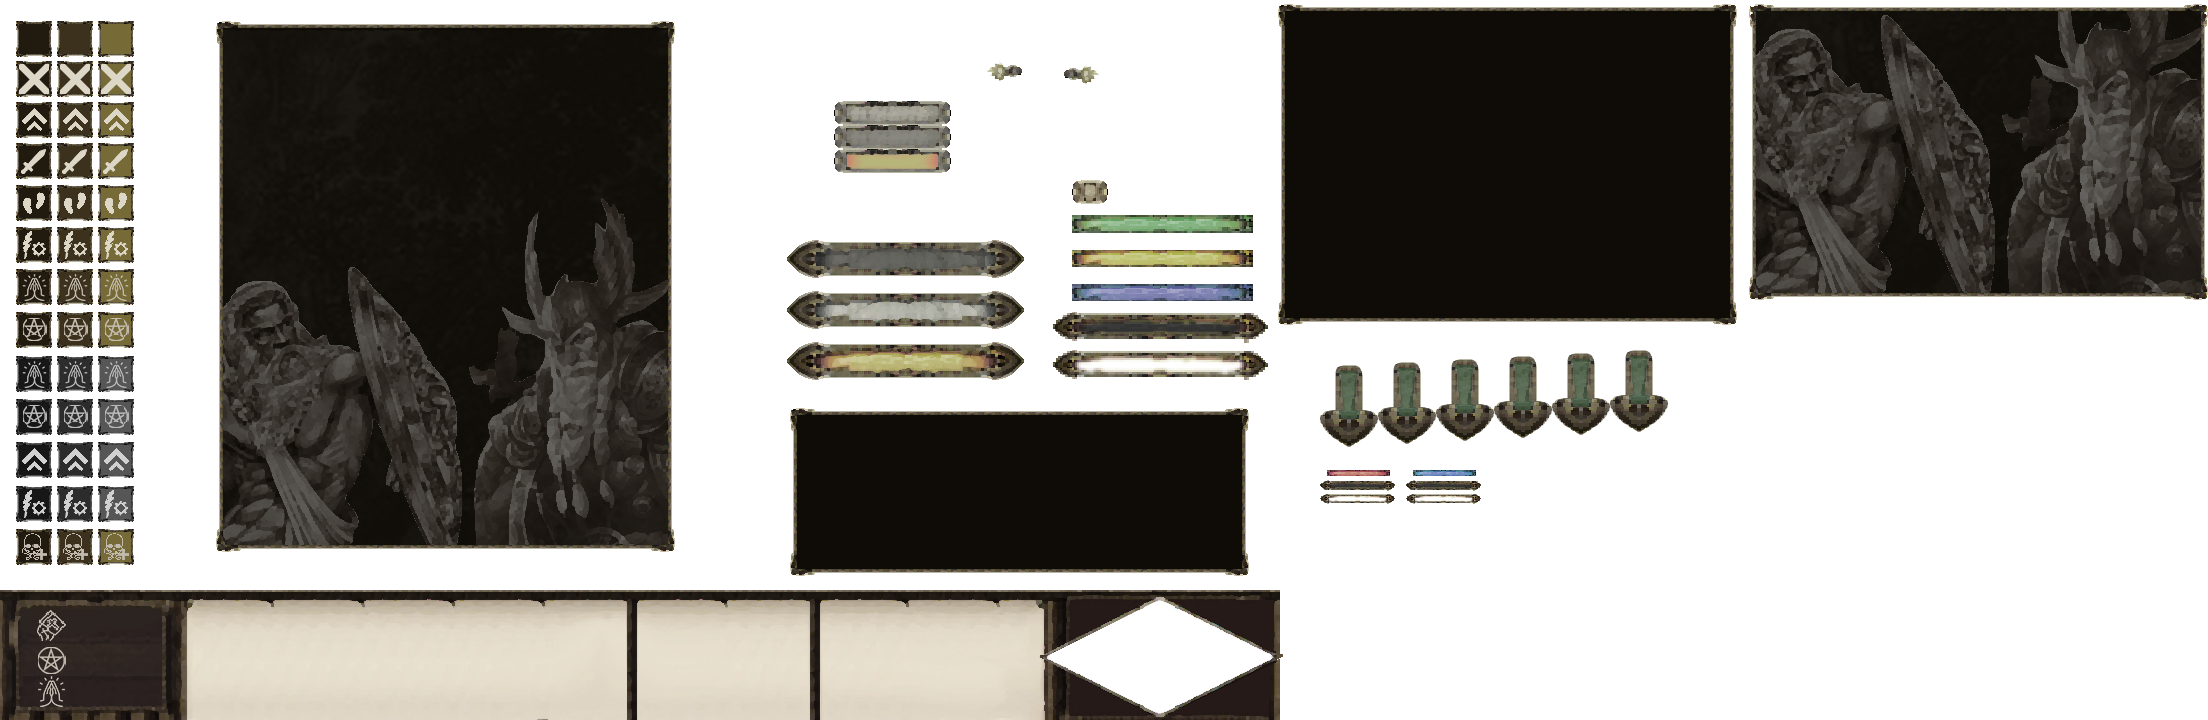
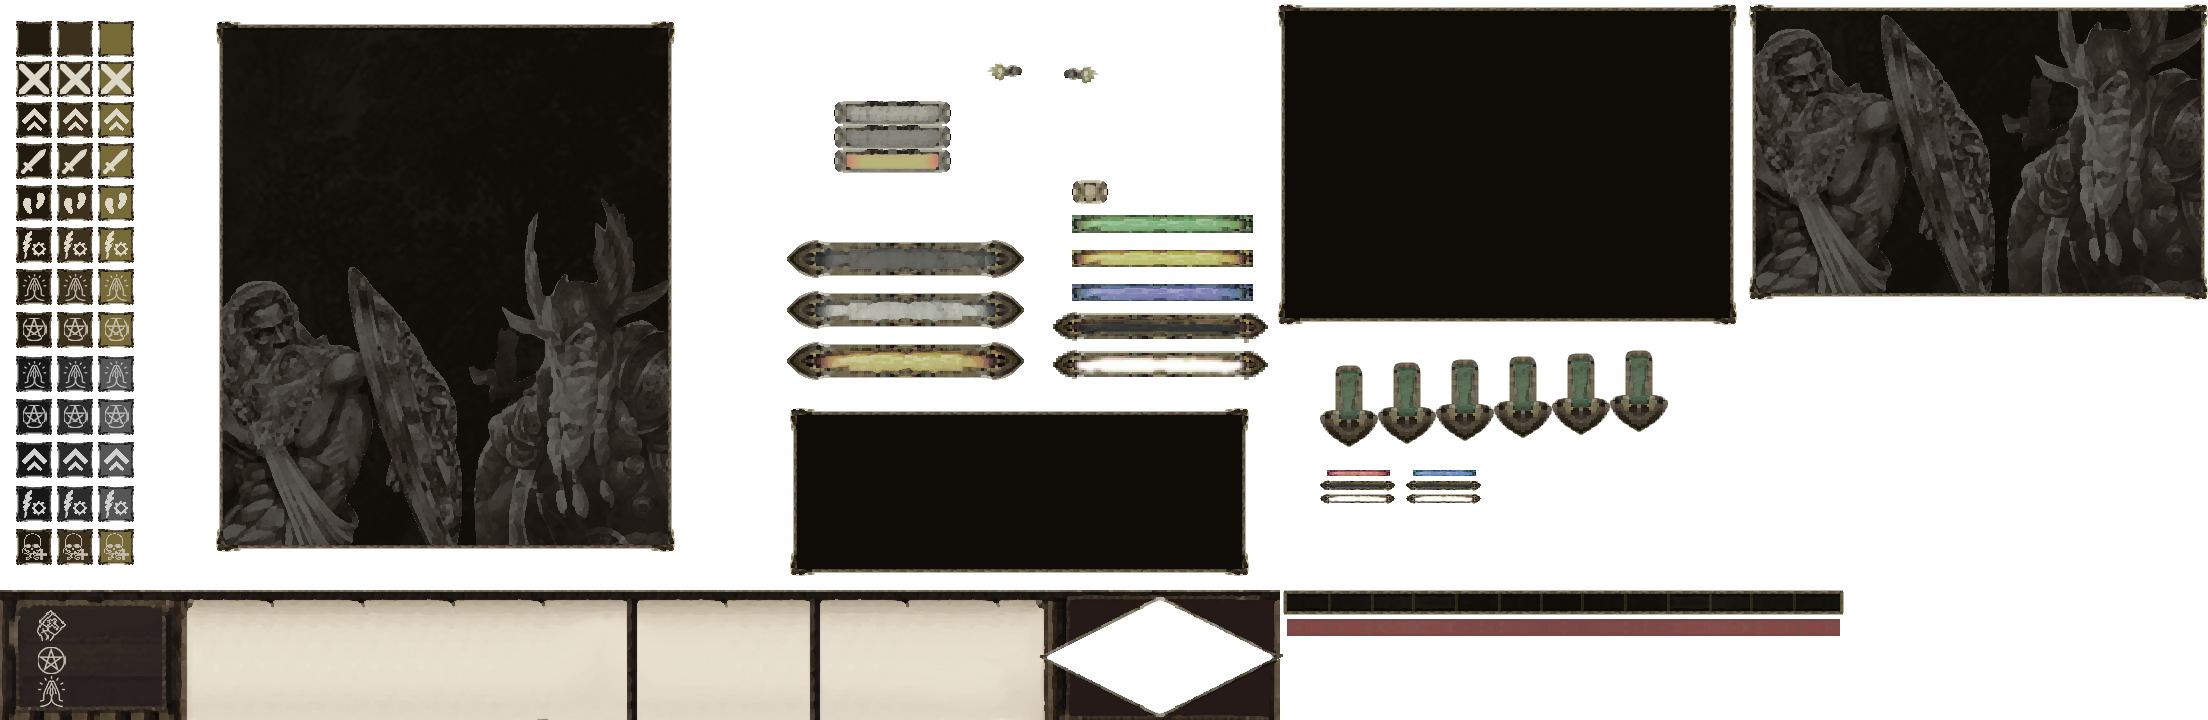
ia_bar_implemented

Changed region(s): [[0.5625, 0.7944, 0.8438, 0.8861]]

diff --git a/Mythology_Parade_Engine/Core/ResearchMenu.cpp b/Mythology_Parade_Engine/Core/ResearchMenu.cpp
@@ -147,7 +147,7 @@ void ResearchMenu::CreateEncampmentButton() {
 //Called to create the button or image to research the cleric;
 void ResearchMenu::CreateClericButton() {
 	if (player->research_cleric == false) {
-		if (player->research_temple == true && player->GetPrayers() >= 10) {
+		if (player->research_temple == true && player->GetPrayers() >= 5) {
 			ui_button_research[2] = static_cast<ButtonUI*>(App->gui->CreateUIElement(Type::BUTTON, ui_research_window, { 196,197,140,99 }, { 12, 1171, 140, 99 }, "RESEARCH CLERIC", Panel_Fade::panel_fade_in,
 				{ 12,1389,140,99 }, { 12,1279,140,99 }, false, { 0,0,0,0 }, App->scene, (int)UI_Audio::CLOSE, false, -1.0f, 2, (int)TooltipsAvailable::cleric_unresearched));
 		}
@@ -165,7 +165,7 @@ void ResearchMenu::CreateClericButton() {
 //Called to create the button or image to research the assassin;
 void ResearchMenu::CreateAssassinButton() {
 	if (player->research_assassin == false) {
-		if (player->research_encampment == true && player->GetSacrifices() >= 10) {
+		if (player->research_encampment == true && player->GetSacrifices() >= 5) {
 			ui_button_research[3] = static_cast<ButtonUI*>(App->gui->CreateUIElement(Type::BUTTON, ui_research_window, { 950,197,140,97 }, { 447, 1173, 140, 97 }, "RESEARCH ASSASSIN", Panel_Fade::panel_fade_in,
 				{ 447,1391,140,97 }, { 447,1281,140,97 }, false, { 0,0,0,0 }, App->scene, (int)UI_Audio::CLOSE, false, -1.0f, 2, (int)TooltipsAvailable::assassin_unresearched));
 		}
@@ -186,7 +186,7 @@ void ResearchMenu::CreateLawfulBeastButton() {
 	{
 	case CivilizationType::VIKING:
 		if (player->research_lawful_beast == false) {
-			if (player->research_cleric == true && player->GetPrayers() >= 20) {
+			if (player->research_cleric == true && player->GetPrayers() >= 10) {
 				ui_button_research[4] = static_cast<ButtonUI*>(App->gui->CreateUIElement(Type::BUTTON, ui_research_window, { 216,330,140,99 }, { 157, 1171, 140, 99 }, "RESEARCH LAWFUL BEAST", Panel_Fade::panel_fade_in,
 					{ 157,1389,140,99 }, { 157,1279,140,99 }, false, { 0,0,0,0 }, App->scene, (int)UI_Audio::CLOSE, false, -1.0f, 2, (int)TooltipsAvailable::jotnar_unresearched));
 			}
@@ -202,7 +202,7 @@ void ResearchMenu::CreateLawfulBeastButton() {
 		break;
 	case CivilizationType::GREEK:
 		if (player->research_lawful_beast == false) {
-			if (player->research_cleric == true && player->GetPrayers() >= 20) {
+			if (player->research_cleric == true && player->GetPrayers() >= 10) {
 				ui_button_research[4] = static_cast<ButtonUI*>(App->gui->CreateUIElement(Type::BUTTON, ui_research_window, { 216,330,140,99 }, { 302, 1171, 140, 99 }, "RESEARCH LAWFUL BEAST", Panel_Fade::panel_fade_in,
 					{ 302,1389,140,99 }, { 302,1279,140,99 }, false, { 0,0,0,0 }, App->scene, (int)UI_Audio::CLOSE, false, -1.0f, 2, (int)TooltipsAvailable::cyclop_unresearched));
 			}
@@ -225,7 +225,7 @@ void ResearchMenu::CreateChaoticBeastButton() {
 	{
 	case CivilizationType::VIKING:
 		if (player->research_chaotic_beast == false) {
-			if (player->research_assassin == true && player->GetSacrifices() >= 20) {
+			if (player->research_assassin == true && player->GetSacrifices() >= 10) {
 				ui_button_research[5] = static_cast<ButtonUI*>(App->gui->CreateUIElement(Type::BUTTON, ui_research_window, { 933,330,140,98 }, { 737, 1172, 140, 98 }, "RESEARCH CHAOTIC BEAST", Panel_Fade::panel_fade_in,
 					{ 737,1390,140,98 }, { 737,1280,140,98 }, false, { 0,0,0,0 }, App->scene, (int)UI_Audio::CLOSE, false, -1.0f, 2, (int)TooltipsAvailable::draugar_unresearched));
 			}
@@ -241,7 +241,7 @@ void ResearchMenu::CreateChaoticBeastButton() {
 		break;
 	case CivilizationType::GREEK:
 		if (player->research_chaotic_beast == false) {
-			if (player->research_assassin == true && player->GetSacrifices() >= 20) {
+			if (player->research_assassin == true && player->GetSacrifices() >= 10) {
 				ui_button_research[5] = static_cast<ButtonUI*>(App->gui->CreateUIElement(Type::BUTTON, ui_research_window, { 933,330,140,98 }, { 592, 1172, 140, 98 }, "RESEARCH CHAOTIC BEAST", Panel_Fade::panel_fade_in,
 					{ 592,1390,140,98 }, { 592,1280,140,98 }, false, { 0,0,0,0 }, App->scene, (int)UI_Audio::CLOSE, false, -1.0f, 2, (int)TooltipsAvailable::minotaur_unresearched));
 			}
@@ -261,7 +261,7 @@ void ResearchMenu::CreateChaoticBeastButton() {
 //Called to create the button or image to research the lawful miracle;
 void ResearchMenu::CreateLawfulMiracleButton() {
 	if (player->research_lawful_miracle == false) {
-		if (player->research_lawful_beast == true && player->GetPrayers() >= 30) {
+		if (player->research_lawful_beast == true && player->GetPrayers() >= 15) {
 			ui_button_research[6] = static_cast<ButtonUI*>(App->gui->CreateUIElement(Type::BUTTON, ui_research_window, { 385,432,140,80 }, { 676, 720, 140, 80 }, "RESEARCH LAWFUL MIRACLE", Panel_Fade::panel_fade_in,
 				{ 676,897,140,80 }, { 676,809,140,80 }, false, { 0,0,0,0 }, App->scene, (int)UI_Audio::CLOSE, false, -1.0f, 2, (int)TooltipsAvailable::miracle_unresearched));
 		}
@@ -279,7 +279,7 @@ void ResearchMenu::CreateLawfulMiracleButton() {
 //Called to create the button or image to research the chaotic miracle;
 void ResearchMenu::CreateChaoticMiracleButton() {
 	if (player->research_chaotic_miracle == false) {
-		if (player->research_chaotic_beast == true && player->GetSacrifices() >= 30) {
+		if (player->research_chaotic_beast == true && player->GetSacrifices() >= 15) {
 			ui_button_research[7] = static_cast<ButtonUI*>(App->gui->CreateUIElement(Type::BUTTON, ui_research_window, { 762,432,140,80 }, { 821, 720, 140, 80 }, "RESEARCH CHAOTIC MIRACLE", Panel_Fade::panel_fade_in,
 				{ 821,897,140,80 }, { 821,809,140,80 }, false, { 0,0,0,0 }, App->scene, (int)UI_Audio::CLOSE, false, -1.0f, 2, (int)TooltipsAvailable::disaster_unresearched));
 		}
@@ -297,7 +297,7 @@ void ResearchMenu::CreateChaoticMiracleButton() {
 //Called to create the button or image to research the lawful victory;
 void ResearchMenu::CreateLawfulVictoryButton() {
 	if (player->research_lawful_victory == false) {
-		if (player->research_lawful_miracle == true && player->GetPrayers() >= 50) {
+		if (player->research_lawful_miracle == true && player->GetPrayers() >= 25) {
 			ui_button_research[8] = static_cast<ButtonUI*>(App->gui->CreateUIElement(Type::BUTTON, ui_research_window, { 494,301,140,80 }, { 966, 720, 140, 80 }, "RESEARCH LAWFUL VICTORY", Panel_Fade::panel_fade_in,
 				{ 966,897,140,80 }, { 966,809,140,80 }, false, { 0,0,0,0 }, App->scene, (int)UI_Audio::CLOSE, false, -1.0f, 2, (int)TooltipsAvailable::victory1_unresearched));
 		}
@@ -315,7 +315,7 @@ void ResearchMenu::CreateLawfulVictoryButton() {
 //Called to create the button or image to research the chaotic victory;
 void ResearchMenu::CreateChaoticVictoryButton() {
 	if (player->research_chaotic_victory == false) {
-		if (player->research_chaotic_miracle == true && player->GetSacrifices() >= 50) {
+		if (player->research_chaotic_miracle == true && player->GetSacrifices() >= 25) {
 			ui_button_research[9] = static_cast<ButtonUI*>(App->gui->CreateUIElement(Type::BUTTON, ui_research_window, { 655,301,140,80 }, { 966, 720, 140, 80 }, "RESEARCH CHAOTIC VICTORY", Panel_Fade::panel_fade_in,
 				{ 966,897,140,80 }, { 966,809,140,80 }, false, { 0,0,0,0 }, App->scene, (int)UI_Audio::CLOSE, false, -1.0f, 2, (int)TooltipsAvailable::victory2_unresearched));
 		}

diff --git a/Mythology_Parade_Engine/Core/HUD.cpp b/Mythology_Parade_Engine/Core/HUD.cpp
@@ -39,6 +39,9 @@ void HUD::StartHUD(ResearchMenu* r) {
 
 	start_timer = false;
 	ui_ingame = static_cast<ImageUI*>(App->gui->CreateUIElement(Type::IMAGE, nullptr, { 0,590,1280,130 }, { 0,590,1280,130 }));
+	ia_bar_back = static_cast<ImageUI*>(App->gui->CreateUIElement(Type::IMAGE, nullptr, { 360,3,561,25 }, { 1283,590,561,25 }));
+	ia_bar_front = static_cast<ImageUI*>(App->gui->CreateUIElement(Type::IMAGE, nullptr, { 364,7,0,17 }, { 1287,619,553,17 }));
+
 	range = damage = influence = health = level = experience = max_cap = speed = 0;
 
 	for (int i = 0; i < 12; i++)
@@ -81,7 +84,6 @@ void HUD::StartHUD(ResearchMenu* r) {
 			}
 		}
 	}
-
 
 	hud_selected_troop = nullptr;
 	thing_selected = nullptr;
@@ -2051,4 +2053,9 @@ void HUD::UpdateSlider(int index) {
 			App->audio->PlayFx(-1, App->gui->sfx_UI[(int)UI_Audio::LOAD]);
 		}
 	}
+}
+
+void HUD::UpdateIABar(float percentage)
+{
+	ia_bar_front->quad.w = percentage * 553;
 }

diff --git a/Mythology_Parade_Engine/Core/j1Scene.cpp b/Mythology_Parade_Engine/Core/j1Scene.cpp
@@ -18,6 +18,7 @@
 #include "j1FadeToBlack.h"
 #include "HUD.h"
 #include "ResearchMenu.h"
+#include "IA.h"
 
 #include "j1TitleScene.h"
 #include "j1ParticleManager.h"
@@ -270,6 +271,12 @@ bool j1Scene::Update(float dt)
 		dont_update_types_of_troops = true;
 	}
 
+	//Update IA bar
+	float ia_bar_percentage = App->ia->timer_ia.ReadSec() / App->ia->time_ia;
+	if (ia_bar_percentage > 1)
+		ia_bar_percentage = 1;
+	hud->UpdateIABar(ia_bar_percentage);
+
 	// Gui ---
 	switch (hud->close_menus)
 	{
@@ -455,6 +462,10 @@ bool j1Scene::CleanUp()
 		hud->HUDDeleteActionButtons();
 		App->gui->DeleteUIElement(hud->ui_ingame);
 		hud->ui_ingame = nullptr;
+		App->gui->DeleteUIElement(hud->ia_bar_back);
+		hud->ia_bar_back = nullptr;
+		App->gui->DeleteUIElement(hud->ia_bar_front);
+		hud->ia_bar_front = nullptr;
 		for (int i = 0; i < 3; i++)
 		{
 			App->gui->DeleteUIElement(hud->ui_text_ingame[i]);

diff --git a/Mythology_Parade_Engine/Core/IA.cpp b/Mythology_Parade_Engine/Core/IA.cpp
@@ -61,6 +61,10 @@ IA::IA() : enemyFortress(nullptr)
 	positionViking.push_back({ -224,560 }); //monastery 2
 	positionViking.push_back({ -256,576 }); //monk4
 	positionViking.push_back({ -224,592 }); //monk5
+
+	timer.Start();
+	timer_ia.Start();
+	time_ia = 2900;
 }
 
 void IA::Init() 
@@ -86,6 +90,15 @@ bool IA::PreUpdate()
 bool IA::Update(float dt)
 {
 	bool ret = true;
+
+	if (App->scene->paused_game == true && timer.isPaused() == false) {
+		timer.Pause();
+		timer_ia.Pause();
+	}
+	else if (App->scene->paused_game == false && timer.isPaused() == true) {
+		timer.Resume();
+		timer_ia.Resume();
+	}
 
 	switch (gamePhase)
 	{

diff --git a/Mythology_Parade_Engine/Core/HUD.h b/Mythology_Parade_Engine/Core/HUD.h
@@ -126,6 +126,9 @@ public:
 	//Called when updating the scene to change the width of the sliders
 	void UpdateSlider(int index);
 
+	//Called when updating the IA bar every frame
+	void UpdateIABar(float percentage);
+
 private:
 	enum class Type_Selected {
 		None,
@@ -188,8 +191,8 @@ public:
 	j1Timer timer_win_lose;
 	bool start_timer;
 	ImageUI* ui_volume_sliders[6];
-
-
+	ImageUI* ia_bar_back;
+	ImageUI* ia_bar_front;
 };
 
 #endif // !__HUD__H_

diff --git a/Mythology_Parade_Engine/Core/IA.h b/Mythology_Parade_Engine/Core/IA.h
@@ -79,6 +79,10 @@ public:
 	void LateGame();
 
 
+public:
+	j1Timer timer_ia;
+	int time_ia;
+
 private:
 	GameBehaviour gamePhase;
 	EarlyGameBehaviour early;
